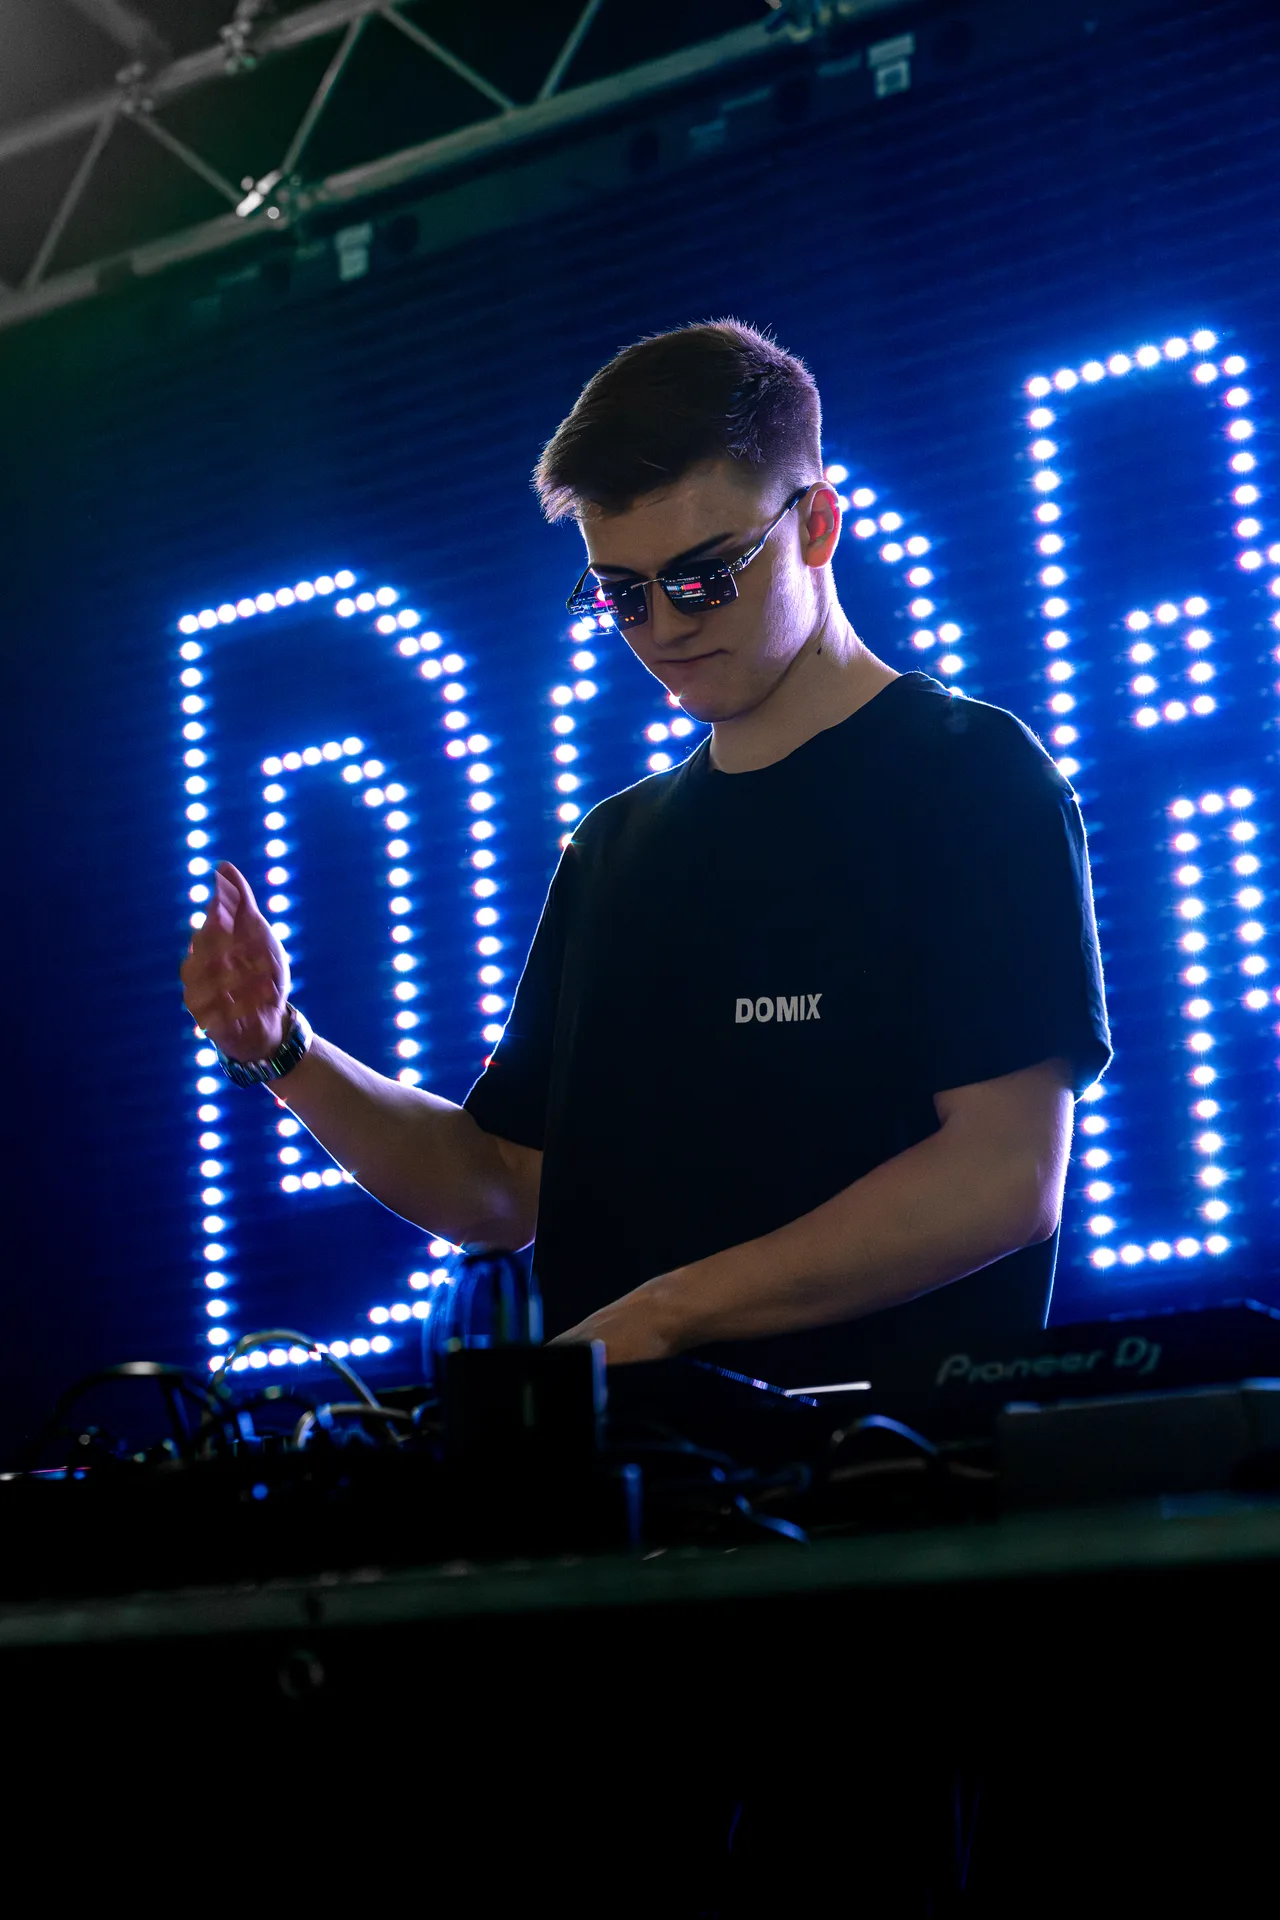
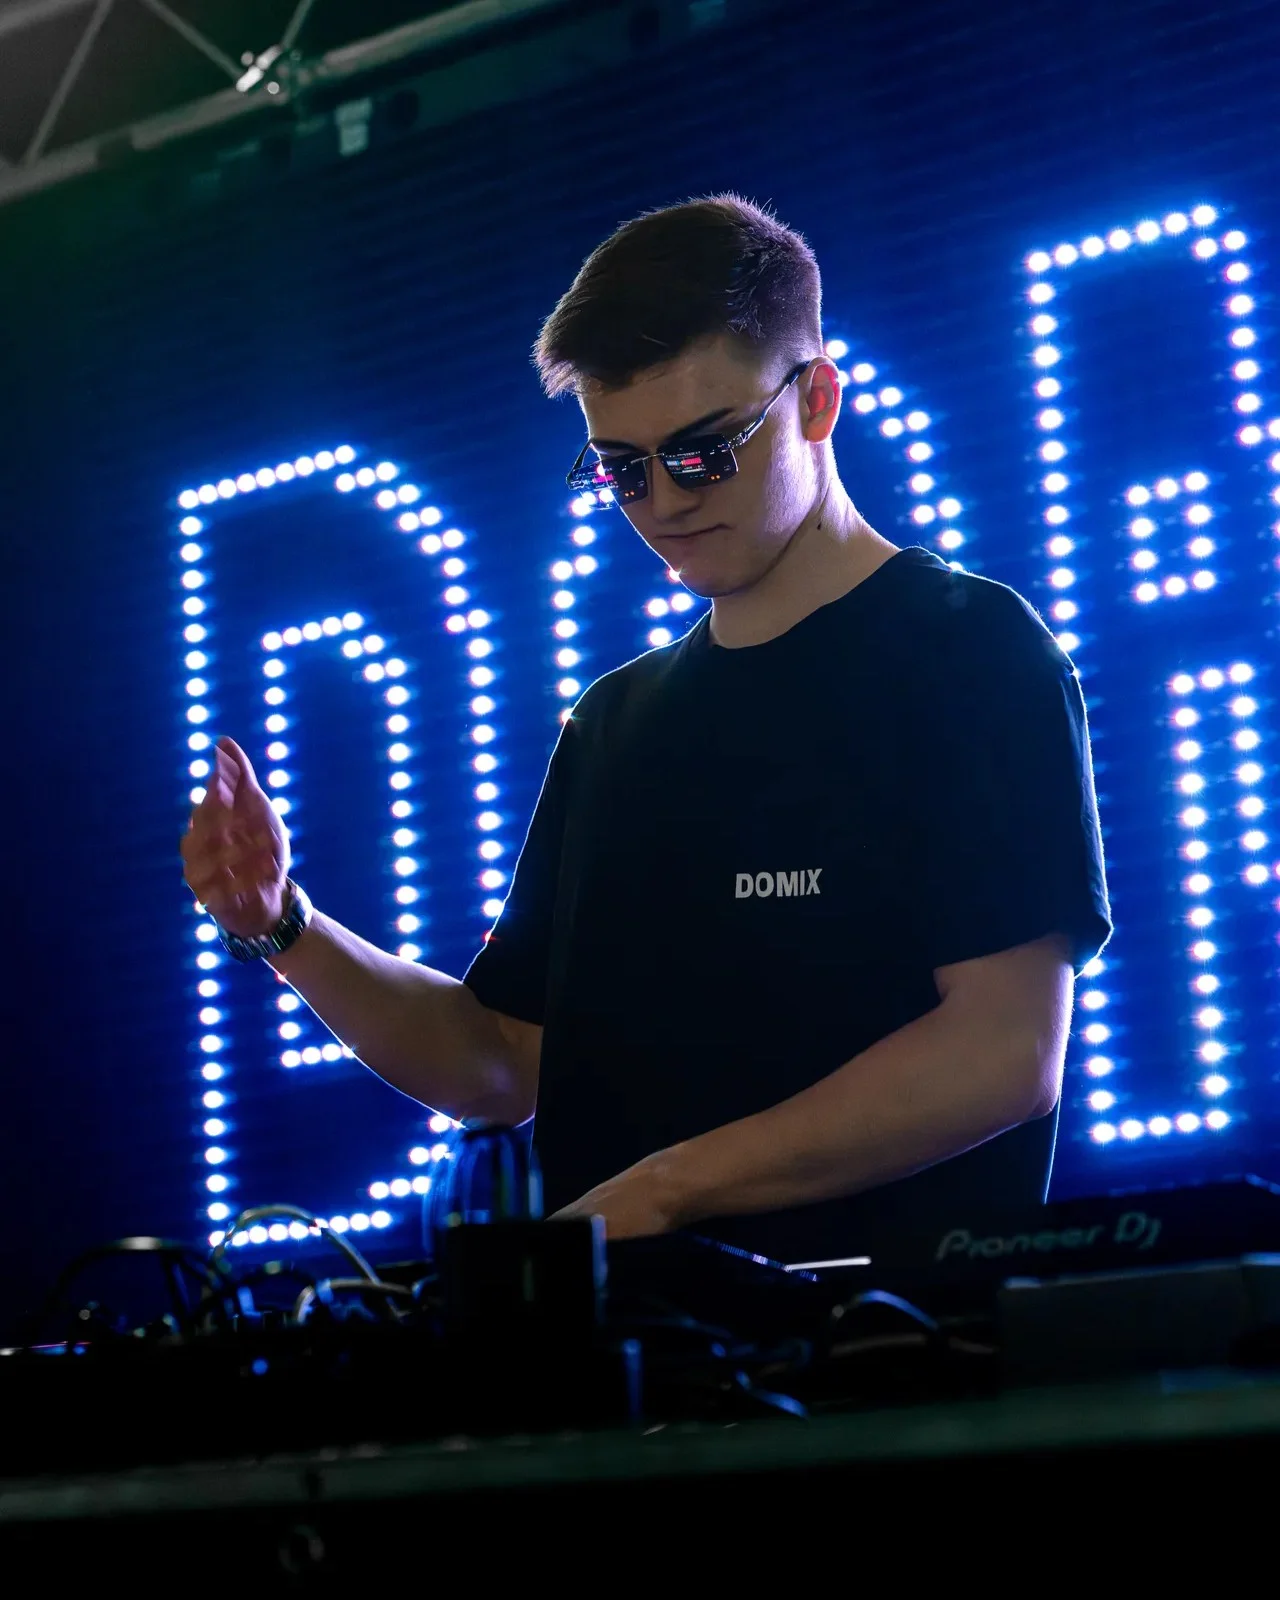
Add HÖFEFEST entry to past shows, update a few images (format change)

diff --git a/shows.html b/shows.html
@@ -227,8 +227,28 @@
                             <button class="recent-show-gallery-link" type="button" data-gallery="lange-einkaufsnacht-september">VIEW PHOTOS <span aria-hidden="true">&rarr;</span></button>
                         </div>
                     </article>
+
+                    <article class="recent-show recent-show-reverse recent-show-extra" id="hoefefest-show" hidden>
+                        <figure class="recent-show-image">
+                            <button class="recent-show-image-button" type="button" data-gallery="hoefefest" aria-label="Open Höfefest gallery">
+                                <img data-src="images/domix/events/Hoefefest%202026/Hoefefest-10.webp" data-srcset="images/domix/events/Hoefefest%202026/Hoefefest-10.webp 1279w" sizes="(max-width: 900px) 100vw, 536px" alt="DOMIX at Höfefest in Gross-Enzersdorf on 13 September 2026" width="1279" height="1599" loading="lazy" decoding="async">
+                            </button>
+                            <button class="recent-show-image-nav recent-show-image-prev" type="button" aria-label="Previous Höfefest image"></button>
+                            <button class="recent-show-image-nav recent-show-image-next" type="button" aria-label="Next Höfefest image"></button>
+                            <div class="recent-show-image-dots" aria-label="Höfefest image selection"></div>
+                        </figure>
+
+                        <div class="recent-show-content">
+                            <div class="recent-show-heading">
+                                <h3>Höfefest</h3>
+                                <p>Gross-Enzersdorf <span aria-hidden="true">&bull;</span> 13.09.2026</p>
+                            </div>
+                            <p class="recent-show-text">Höfefest was my third Marchfelder Bank event in a row that September and it landed right on my 18th birthday. Despite the rain, I got to spend the afternoon on the decks in Gross-Enzersdorf and share the day with my family.</p>
+                            <button class="recent-show-gallery-link" type="button" data-gallery="hoefefest">VIEW PHOTOS <span aria-hidden="true">&rarr;</span></button>
+                        </div>
+                    </article>
                 </div>
-                <button class="recent-shows-toggle" type="button" aria-expanded="false" aria-controls="inferno-show lange-einkaufsnacht-show lange-einkaufsnacht-september-show">View all shows</button>
+                <button class="recent-shows-toggle" type="button" aria-expanded="false" aria-controls="inferno-show lange-einkaufsnacht-show lange-einkaufsnacht-september-show hoefefest-show">View all shows</button>
             </div>
         </section>
 
@@ -379,12 +399,12 @@
                     [1920, 1280],
                     [1920, 1280],
                     [1920, 1280],
-                    [1280, 1920],
-                    [1280, 1920],
-                    [1280, 1920],
-                    [1280, 1920],
-                    [1280, 1920],
-                    [1280, 1920]
+                    [1280, 1600],
+                    [1280, 1600],
+                    [1280, 1600],
+                    [1280, 1600],
+                    [1267, 1774],
+                    [1280, 1792]
                 ]
             },
             'lange-einkaufsnacht': {
@@ -429,11 +449,36 @@
                 dimensions: [
                     [1920, 1280],
                     [1920, 1280],
-                    [1280, 1920],
+                    [1280, 1024],
                     [1920, 1280],
-                    [1280, 1920],
+                    [1280, 1600],
                     [1920, 1280],
 
+                    [1920, 1280],
+                    [1920, 1280]
+                ]
+            },
+            'hoefefest': {
+                title: 'HÖFEFEST',
+                meta: 'Gross-Enzersdorf \u2022 13.09.2026',
+                url: '#hoefefest-show',
+                images: [
+                    'images/domix/events/Hoefefest%202026/Hoefefest-10.webp',
+                    'images/domix/events/Hoefefest%202026/Hoefefest-04.webp',
+                    'images/domix/events/Hoefefest%202026/Hoefefest-16.webp',
+                    'images/domix/events/Hoefefest%202026/Hoefefest-14.webp',
+                    'images/domix/events/Hoefefest%202026/Hoefefest-06.webp',
+                    'images/domix/events/Hoefefest%202026/Hoefefest-05.webp',
+                    'images/domix/events/Hoefefest%202026/Hoefefest-11.webp',
+                    'images/domix/events/Hoefefest%202026/Hoefefest-01.webp'
+                ],
+                dimensions: [
+                    [1279, 1599],
+                    [1920, 1280],
+                    [1280, 1920],
+                    [1280, 1024],
+                    [1920, 1280],
+                    [1280, 1600],
                     [1920, 1280],
                     [1920, 1280]
                 ]
